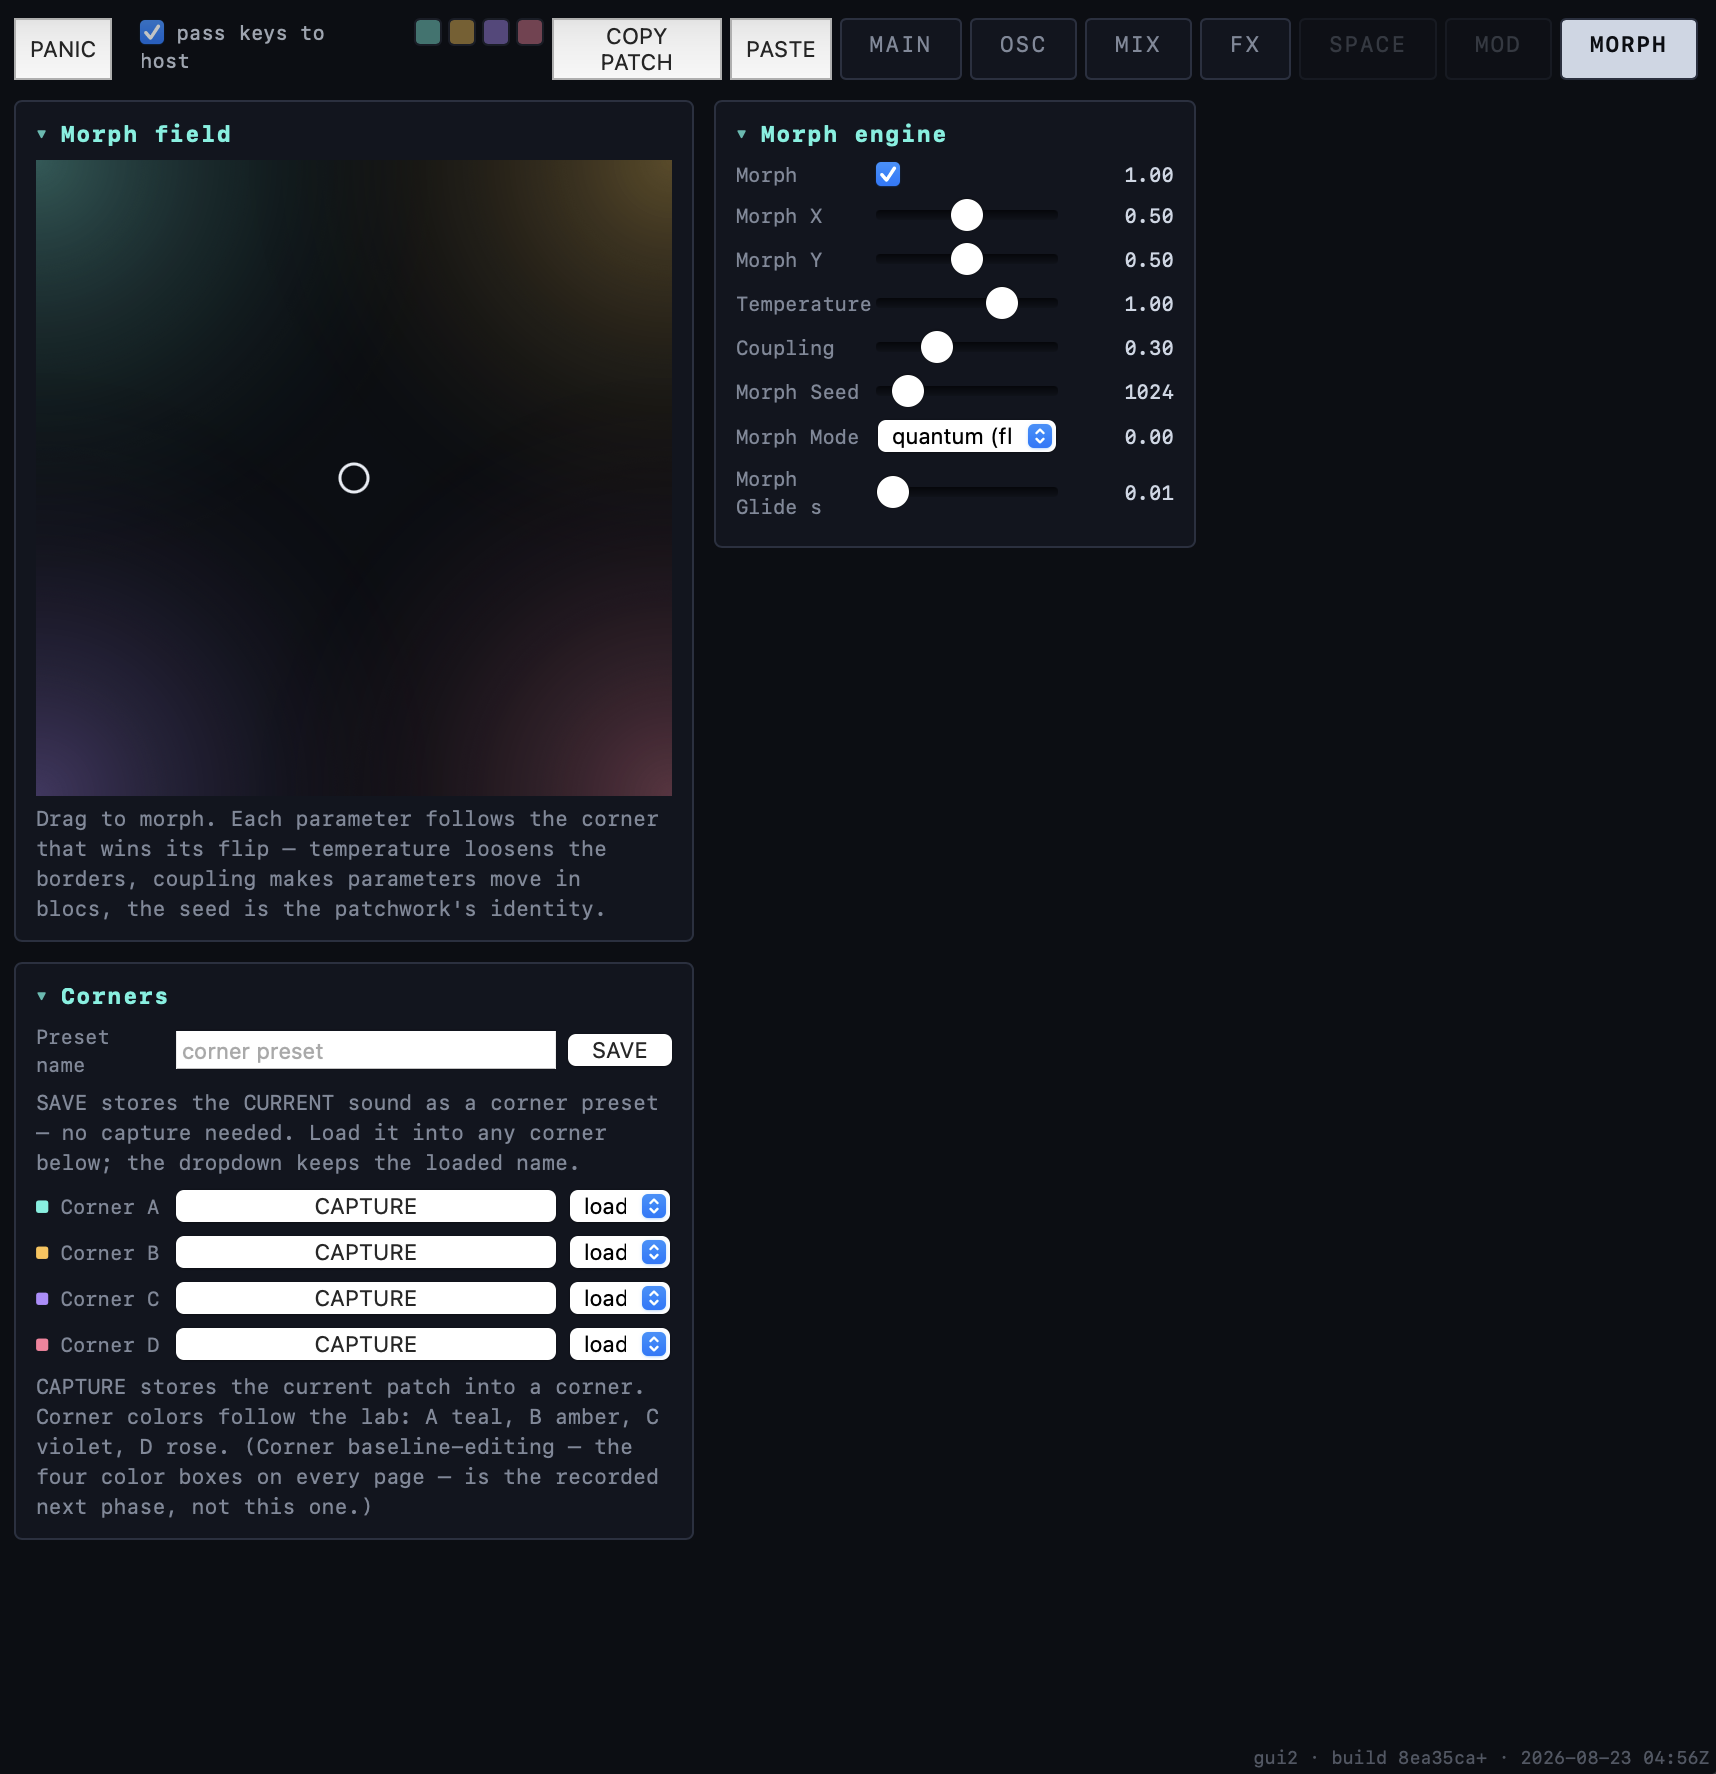
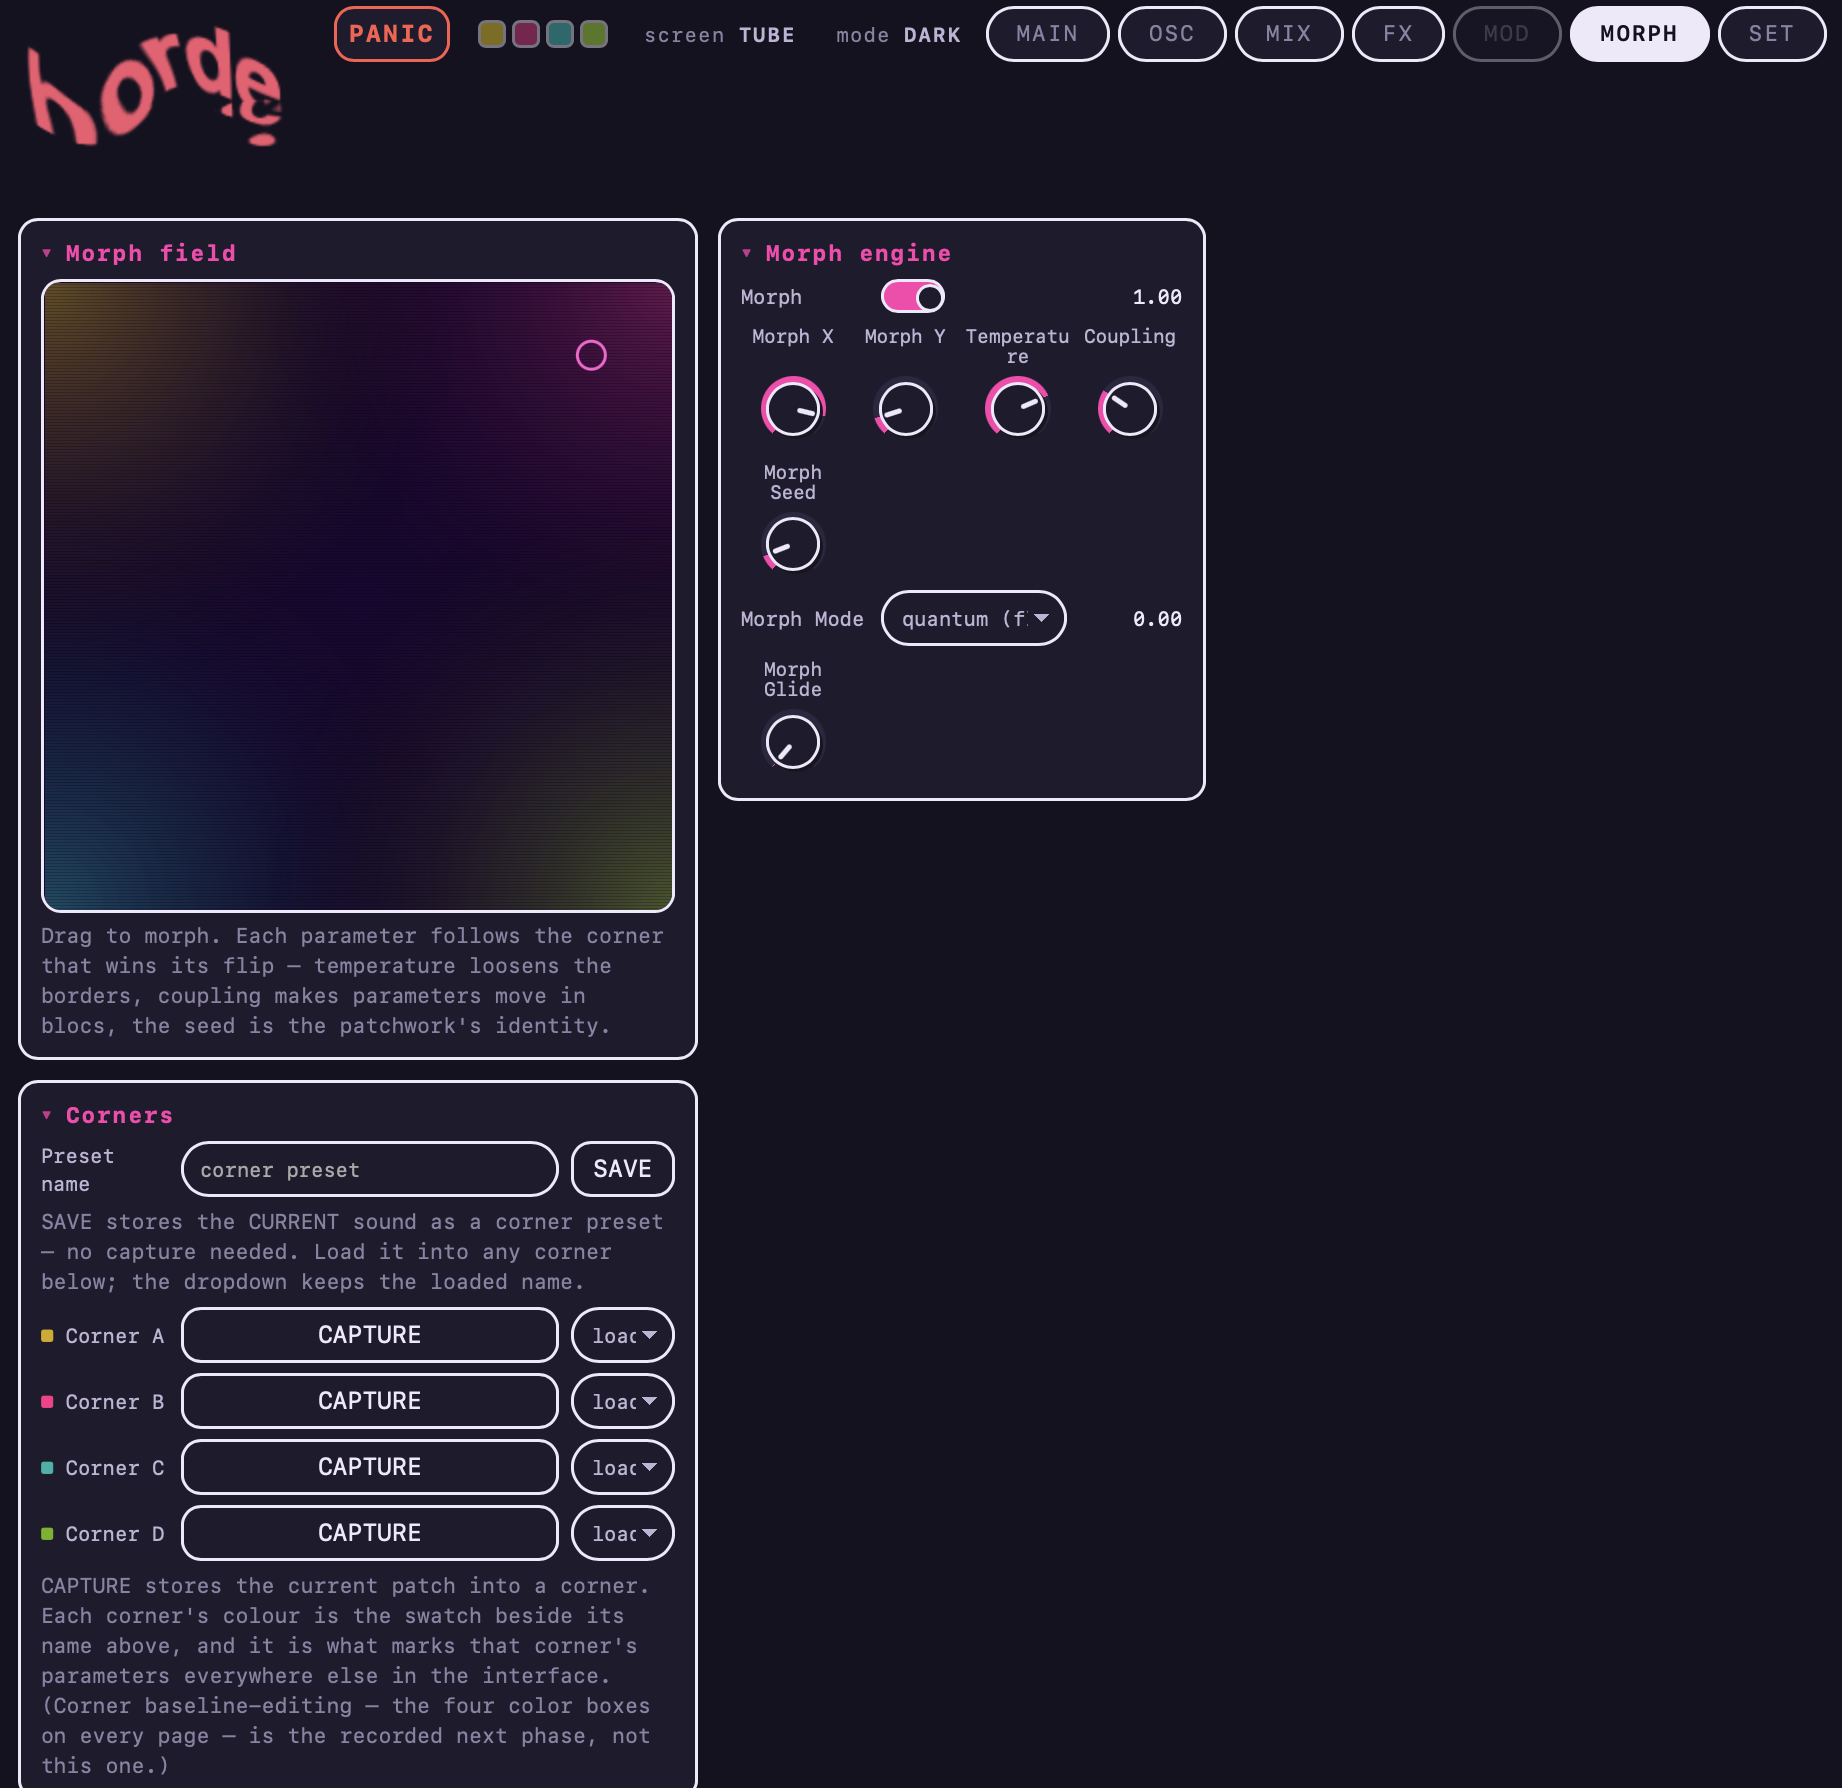
Wire the new screenshots; three README image links were dead
The human retook Tier 1 and deleted the old set. That left README pointing at
three files that no longer existed -- gui-overview.png, gui-mix.png and
gui-fx.png -- so the page would have rendered three broken images, which is the
one thing docs/img's own convention says is worse than a missing image, and it
was about to be linked publicly.

Wired in: gui-hero.png (MAIN, dark chassis, TUBE screen) as the hero, and
gui-light.png (the SAME page, light chassis, EMBER screen) directly beneath it
-- the pair is the argument that chassis and screen are independent axes, so
they belong adjacent rather than in separate sections. gui-osc.png and
gui-morph.png updated in place.

Captions written from the actual images rather than from the shot list's
intent: the hero's caption names what is on screen (the ring is the swarm, the
violet vector is the order parameter, the green arc is where voices collected)
and the OSC caption points at the corner-ownership bars, which that shot
carries better than the MORPH page does. Removed the stale-screenshots warning,
which is now false.

Dead image references for MIX and FX removed with their links but their prose
kept -- those sections read fine without a picture, and a missing image is
quiet where a broken one is not.

Also corrected "five live pages" to six plus settings; the tab bar has said
seven since the SET page landed.

Recorded in docs/img/README.md that Tier 1 is done and five shots remain, plus
[…]

diff --git a/README.md b/README.md
@@ -12,28 +12,32 @@ as its per-partial sibling. "HYPERSAW" is now only the repository's name and the
 id hosts use to re-find saved sessions — so that id will keep saying `hypersaw` long after
 nothing on screen does.*
 
-![horde — the MAIN page](docs/img/gui-overview.png)
-*MAIN: the XY pad, the bend laws with their step-response and vibrato-retention meters, patch
-storage, and the swarm's phase circle with its live order parameter R. Build hash is in the
-bottom-right corner of every screenshot — that is which code drew it.*
+![horde — MAIN, dark chassis](docs/img/gui-hero.png)
+*MAIN on the **dark** chassis with the **TUBE** screen: the XY pad, patch storage, the bend
+laws with their step-response and vibrato-retention meters, the scale mask, and the swarm's
+phase circle mid-note — the ring is the swarm, the violet vector is the order parameter, and
+the green arc is where the voices have collected. The wordmark is not a graphic; it is being
+warped live by the engine. Build hash sits bottom-right of every shot — that is which code
+drew it.*
 
-> **These five shots are dated 2026-08-23 and the interface has moved since.** They predate
-> the knob pass, the light/dark chassis, the five screen schemes, the warping wordmark, the
-> SET page and the corner-ownership stripes — everything §The look describes. They are kept
-> rather than removed because the layout and the story they tell are still right, and this
-> repo's own screenshot convention says a dated, admitted-stale image beats a confident one
-> that quietly lies. Retake list: `docs/img/README.md`.
+![horde — the same page, light chassis](docs/img/gui-light.png)
+*The **same page** on the **light** chassis with the **EMBER** screen. Chassis and screen are
+two independent axes, which is why this is a pair rather than a variant: the layout, the
+signal colours and their meanings are identical — only the ground and the phosphor moved.*
 
 ---
 
 ## What it does today
 
 Two **oscillators**, each a full swarm, summed through a shared FX rack and a master stage.
-The interface is five live pages.
+The interface is six live pages plus a settings page.
 
 ### OSC — where the sound is built
 
 ![horde — the OSC page](docs/img/gui-osc.png)
+*OSC carries the density: nine clusters of controls against five live visualisers. The
+coloured bars above the knob labels are **corner ownership** — each one says which morph
+corner currently owns that parameter. Hovering a spectrum bar reads out its frequency band.*
 
 A swarm of up to 32 voices per oscillator with **six detune laws** and seeded distributions,
 plus the parts that make it a *dynamical* system rather than a chorus: **coupling K** (positive
@@ -45,16 +49,12 @@ decoration — the phase circle shows the swarm's coherence, the voice map shows
 
 ### MIX — balance and output
 
-![horde — the MIX page](docs/img/gui-mix.png)
-
 Per-oscillator power, level, tuning, mute/solo and meters; master volume and transposition;
 and the output stage — mono fold, bass-mono with an adjustable crossover, and 2× oversampling.
 A disabled oscillator costs **0.03% of a core**: disabled means it does not run, not that it
 runs quietly.
 
 ### FX — four slots in series
-
-![horde — the FX page](docs/img/gui-fx.png)
 
 Four slots, order fixed by slot index, each with type / amount / tone. An `Off` slot is a
 **bit-exact passthrough** that does not touch the buffer. Comp and Comb are real cores; Drive,
@@ -73,6 +73,10 @@ sources, mono/legato, and MPE per-note bend live here too.
 ## The morph grid
 
 ![horde — the MORPH page](docs/img/gui-morph.png)
+*The morph field, with the cursor parked off-centre. The four corner colours in the gradient
+are the same four that mark parameter ownership everywhere else in the interface — that is the
+whole idea in one picture: a patch is a position in a field, and every parameter belongs to
+whichever corner won it.*
 
 The feature that makes horde a *patch explorer* rather than a synth with a lot of knobs.
 

diff --git a/docs/img/README.md b/docs/img/README.md
@@ -2,6 +2,27 @@
 
 Drop PNGs here; the top-level README wires them in.
 
+## STATUS (2026-08-26)
+
+**Tier 1 is DONE and wired into the README** — `gui-hero.png` (MAIN, dark, TUBE),
+`gui-light.png` (MAIN, light, EMBER), `gui-osc.png`, `gui-morph.png`. The old
+2026-08-23 set was deleted with them, and the README's dead references to
+`gui-overview.png`, `gui-mix.png` and `gui-fx.png` were removed in the same
+change — a broken image is worse than a missing one, and three of them were
+live for a moment.
+
+**Still open, in value order:** `labs-index.png`, `gui-schemes.png`,
+`verify-green.png`, `gui-fx.png`, `gui-mix.png`. The MIX and FX *sections* still
+read fine without an image, so those two are the least urgent; the labs gallery
+is the most valuable thing not yet shot.
+
+**Two notes from the shots that came in**, for whoever takes the rest:
+the four Tier-1 shots were captured at slightly different window widths, so MAIN
+shows four columns in the dark shot and three in the light one. It still reads
+as one instrument, but a fixed width would have made the pair exact. And none of
+the four has the build stamp in frame — the footer sat below the capture. Both
+are worth getting right on the remaining five.
+
 ## THE SHOT LIST (2026-08-26 — for the public README)
 
 **Context: this README is about to be linked publicly**, so the set has a job
